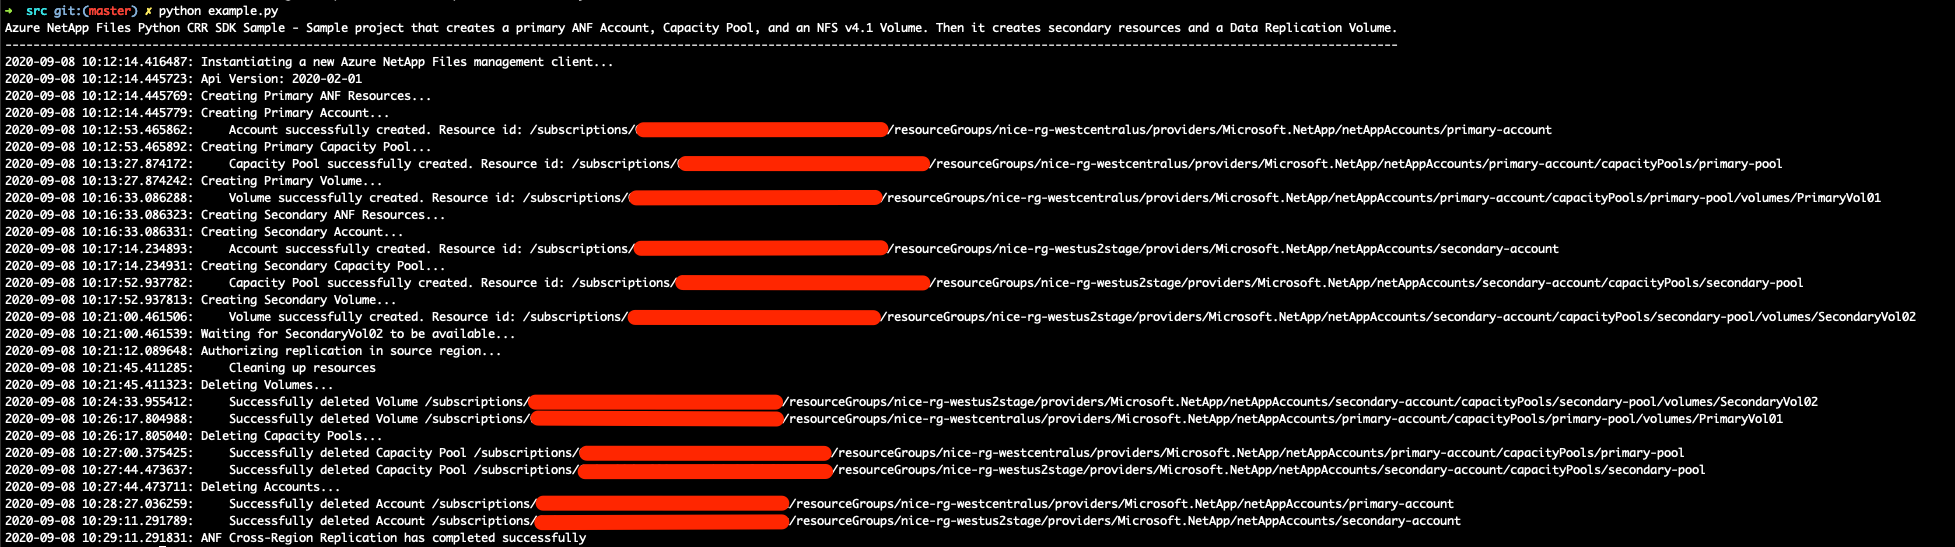
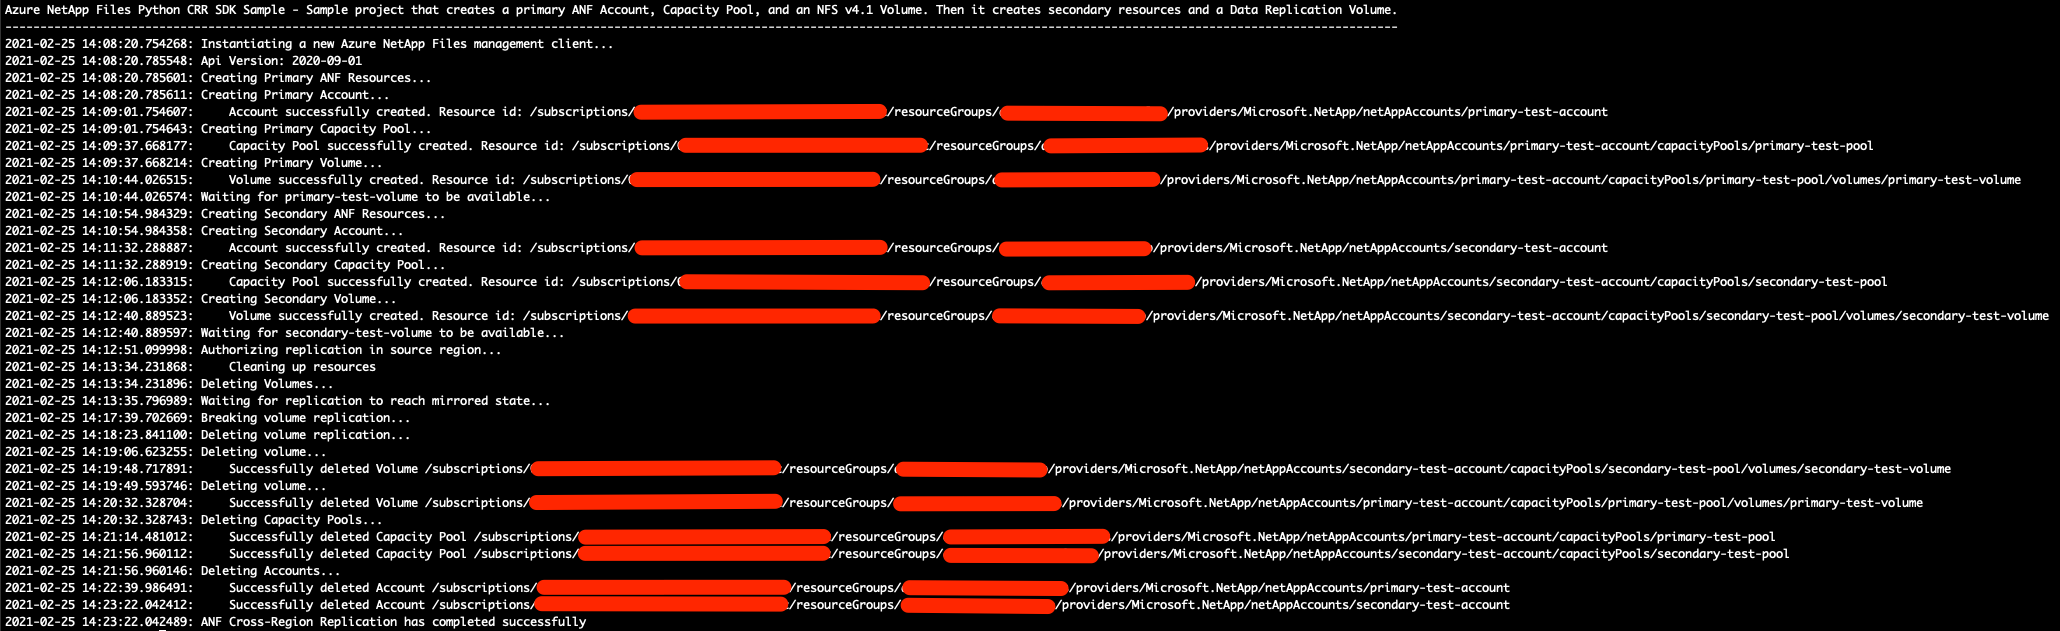
adding support for newer versions of the sdk

Changed region(s): [[0.0, 0.0, 0.9985, 0.9945]]

diff --git a/src/example.py b/src/example.py
@@ -8,7 +8,7 @@ from azure.mgmt.netapp import AzureNetAppFilesManagementClient
 from azure.mgmt.netapp.models import NetAppAccount, CapacityPool, Volume, ExportPolicyRule, VolumePropertiesExportPolicy, VolumePropertiesDataProtection, ReplicationObject
 from azure.mgmt.resource import ResourceManagementClient
 from msrestazure.azure_exceptions import CloudError
-from sample_utils import console_output, print_header, get_credentials, resource_exists, wait_for_no_anf_resource, wait_for_anf_resource
+from sample_utils import console_output, print_header, get_credentials, resource_exists, wait_for_no_anf_resource, wait_for_anf_resource, wait_for_replication_state
 
 
 # ------------------------------------------IMPORTANT------------------------------------------------------------------
@@ -110,7 +110,7 @@ def create_capacity_pool(anf_client, resource_group_name, anf_account_name,
 
 def create_volume(anf_client, resource_group_name, anf_account_name,
                   capacity_pool_name, volume_name, volume_size,
-                  subnet_id, location, data_protection=None, tags=None):
+                  subnet_id, location, data_protection=None, volume_type=None, tags=None):
     """Creates a volume within a capacity pool
 
     Function that in this example creates a NFSv4.1 volume within a capacity
@@ -160,7 +160,8 @@ def create_volume(anf_client, resource_group_name, anf_account_name,
         subnet_id=subnet_id,
         protocol_types=["NFSv4.1"],
         export_policy=export_policies,
-        data_protection=data_protection
+        data_protection=data_protection,
+        volume_type=volume_type
     )
 
     return anf_client.volumes.create_or_update(volume_body,
@@ -298,7 +299,8 @@ def run_example():
                                                 VOLUME_SIZE,
                                                 secondary_subnet_id,
                                                 SECONDARY_LOCATION,
-                                                data_protection_object)
+                                                data_protection_object,
+                                                "DataProtection")
         console_output("\tVolume successfully created. Resource id: {}".format(data_replication_volume.id))
     except CloudError as ex:
         console_output("An error occurred while creating Volume: {}".format(ex.message))
@@ -343,15 +345,30 @@ def run_example():
                 volume_name = resource_uri_utils.get_anf_volume(volume_id)
 
                 # First we need to remove the replication attached to the volume before we can delete the volume itself. We first check if the replication exists and act accordingly
-                # Note that we need to delete the replication using the destination volume's id
+                # Note that we need to break and delete the replication using the destination volume's id
                 # This erases the replication for both destination and source volumes
                 try:
                     # This method throws an exception if no replication is found
-                    anf_client.volumes.replication_status_method(resource_group,
-                                                                 account_name,
-                                                                 pool_name,
-                                                                 volume_name)
+                    replication_status = anf_client.volumes.replication_status_method(resource_group,
+                                                                                      account_name,
+                                                                                      pool_name,
+                                                                                      volume_name)
 
+                    if (replication_status.mirror_state == "Uninitialized"):
+                        console_output("Waiting for replication to reach mirrored state...")
+                        wait_for_replication_state(anf_client, volume_id, "Mirrored")
+
+                    console_output("Breaking volume replication...")
+                    # Break replication before deleting it
+                    anf_client.volumes.break_replication(resource_group,
+                                                         account_name,
+                                                         pool_name,
+                                                         volume_name).wait()
+
+                    wait_for_replication_state(anf_client, volume_id, "Broken")
+
+                    console_output("Deleting volume replication...")
+                    # Delete the replication
                     anf_client.volumes.delete_replication(resource_group,
                                                           account_name,
                                                           pool_name,
@@ -363,9 +380,10 @@ def run_example():
                     if e.status_code == 404: # If replication is not found then the volume can be safely deleted. Therefore we pass on this error and proceed to delete the volume
                         pass
                     else: # Throw all other exceptions
-                        console_output("An error occurred while deleting replication: {}".format(e.message))
+                        console_output("An error occurred while breaking/deleting replication: {}".format(e.message))
                         raise
 
+                console_output("Deleting volume...")
                 anf_client.volumes.delete(resource_group,
                                           account_name,
                                           pool_name,

diff --git a/src/sample_utils.py b/src/sample_utils.py
@@ -212,3 +212,32 @@ def resource_exists(resource_client, resource_id, api_version):
                 if ie.status_code == 404:
                     return False
         raise # If not 405 or 404, not expected
+
+
+def wait_for_replication_state(client, resource_id, state, interval_in_sec=10, retries=60):
+    """Waits for volume replication status to reach given state
+
+    This function checks if a replication is in given state, and if so breaks the wait.
+    The replication is required to be in state 'Mirrored' before it can be broken.
+    The replication is required to be in state 'Broken' before it can be deleted.
+
+    Args:
+        client (AzureNetAppFilesManagementClient): Azure Resource Provider
+            Client designed to interact with ANF resources
+        resource_id (string): Resource Id of the resource to be checked upon
+        interval_in_sec (int): Interval used between checks
+        retires (int): Number of times a poll will be performed
+    """
+
+    for i in range(0, retries):
+        time.sleep(interval_in_sec)
+        try:
+            status = client.volumes.replication_status_method(resource_uri_utils.get_resource_group(resource_id),
+                                                              resource_uri_utils.get_anf_account(resource_id),
+                                                              resource_uri_utils.get_anf_capacity_pool(resource_id),
+                                                              resource_uri_utils.get_anf_volume(resource_id))
+            if status.mirror_state == state:
+                break
+
+        except CloudError as ex:
+            pass
